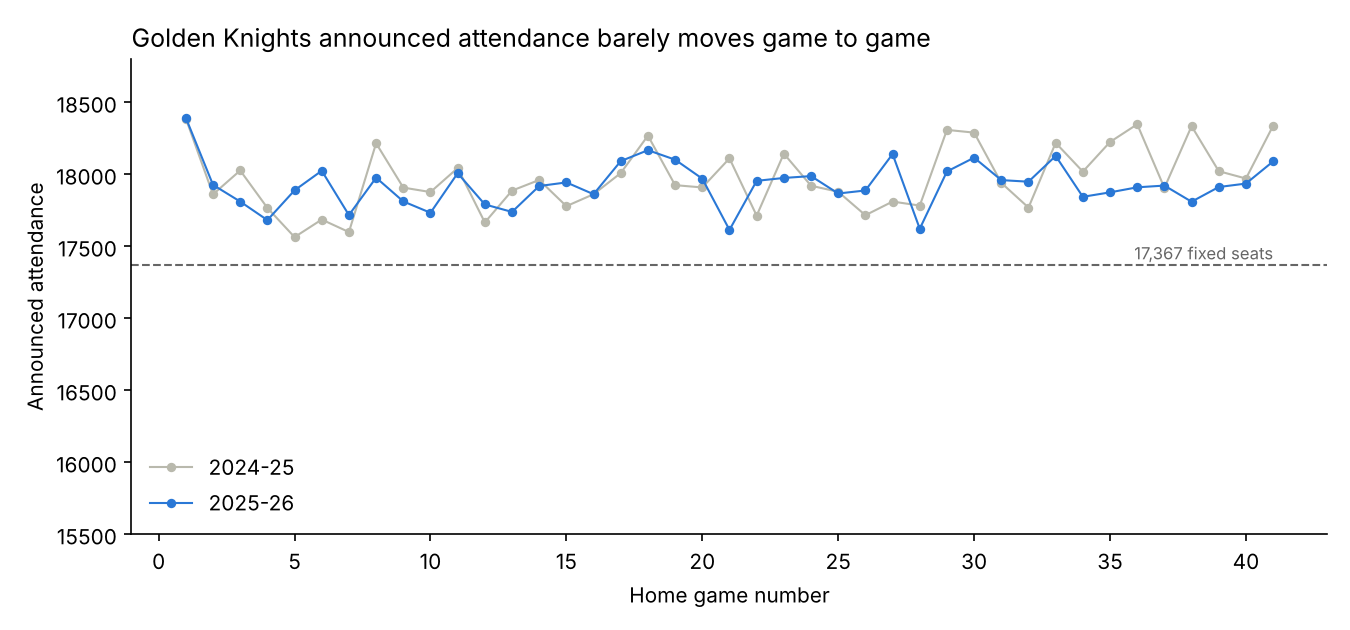
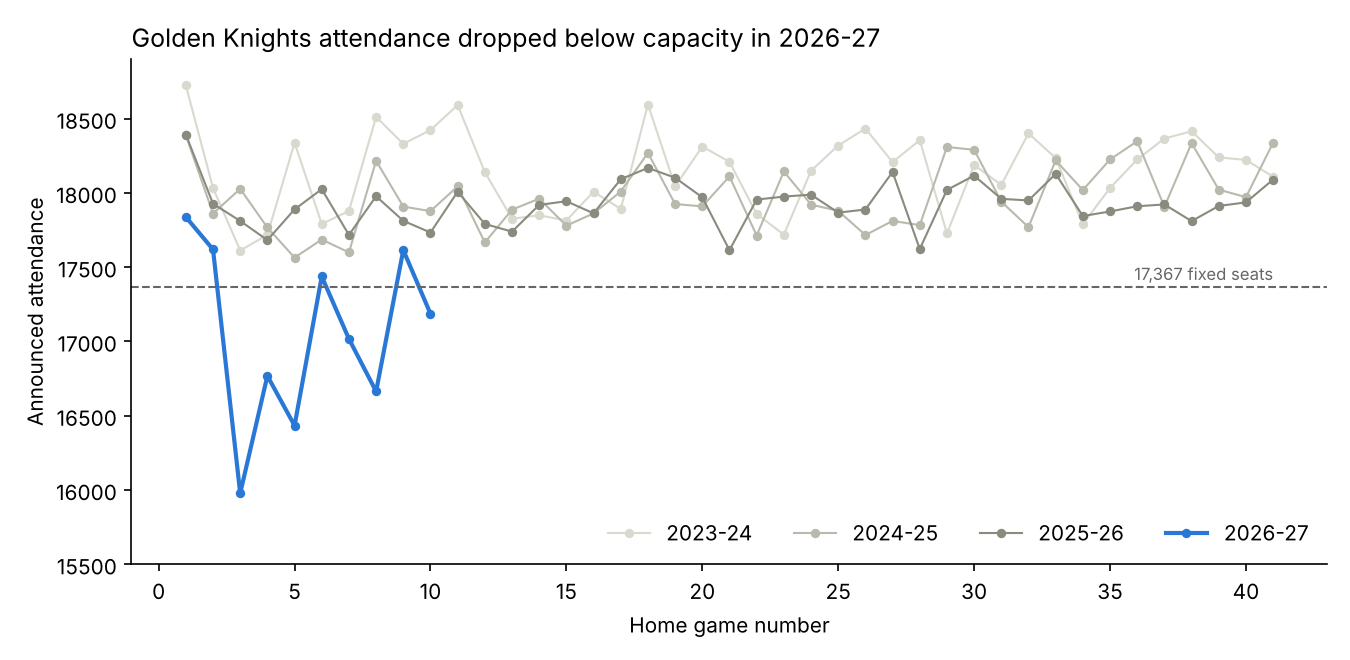
vegas-nba-demand: add 2023-24 and 2026-27 Golden Knights games, compare eras
Fit the capped-era model on 2023-24 to 2025-26 (123 games) and compare
2026-27 to date (10 games), the first season with attendance below capacity.

Claude-Session: https://claude.ai/code/session_01K1x2dEquoHifJFTghzGg75

diff --git a/vegas-nba-demand/src/02_vgk_game_model.py b/vegas-nba-demand/src/02_vgk_game_model.py
@@ -1,8 +1,15 @@
 """Golden Knights game-level attendance: how much does demand show up in the gate?
 
+Two eras:
+  - 2023-24 to 2025-26: every game announced above fixed seats (broker-held
+    tickets counted), so attendance is a compressed signal.
+  - 2026-27: the team cut broker sales and announced attendance can fall below
+    capacity, so the gate starts to show real variation.
+
 Inputs:  data/vgk_home_games.csv (regular-season home games, announced attendance)
 Outputs: results/vgk_season_summary.csv, results/vgk_model_coefficients.csv,
          results/vgk_model_fit.json, results/vgk_by_weekday.csv,
+         results/vgk_2026_27_vs_model.csv, results/vgk_era_comparison.json,
          results/vgk_attendance_by_game.png
 """
 import json
@@ -18,6 +25,7 @@ ROOT = Path(__file__).resolve().parents[1]
 RES = ROOT / "results"
 RES.mkdir(exist_ok=True)
 FIXED_SEATS = 17_367
+NEW_ERA = "2026-27"
 
 ORIGINAL_SIX = {"Boston Bruins", "Chicago Blackhawks", "Detroit Red Wings",
                 "Montreal Canadiens", "New York Rangers", "Toronto Maple Leafs"}
@@ -27,6 +35,7 @@ PACIFIC = {"Anaheim Ducks", "Calgary Flames", "Edmonton Oilers", "Los Angeles Ki
            "San Jose Sharks", "Seattle Kraken", "Vancouver Canucks"}
 
 g = pd.read_csv(ROOT / "data" / "vgk_home_games.csv", parse_dates=["date"]).sort_values("date")
+g = g.reset_index(drop=True)
 g["weekday"] = g.date.dt.day_name()
 g["fri_sat"] = g.weekday.isin(["Friday", "Saturday"]).astype(int)
 g["sunday"] = (g.weekday == "Sunday").astype(int)
@@ -37,8 +46,8 @@ g["home_opener"] = (g.groupby("season").cumcount() == 0).astype(int)
 g["original_six"] = g.opponent.isin(ORIGINAL_SIX).astype(int)
 g["canadian"] = g.opponent.isin(CANADIAN).astype(int)
 g["pacific"] = g.opponent.isin(PACIFIC).astype(int)
+g["season_2024_25"] = (g.season == "2024-25").astype(int)
 g["season_2025_26"] = (g.season == "2025-26").astype(int)
-g["pct_of_fixed_seats"] = g.attendance / FIXED_SEATS
 
 season = g.groupby("season").attendance.agg(["count", "mean", "std", "min", "max"]).round(1)
 season["mean_pct_of_fixed_seats"] = (season["mean"] / FIXED_SEATS * 100).round(1)
@@ -46,14 +55,24 @@ season["games_below_fixed_seats"] = g.groupby("season").apply(
     lambda d: int((d.attendance < FIXED_SEATS).sum()), include_groups=False)
 season.to_csv(RES / "vgk_season_summary.csv")
 
-g.groupby("weekday").attendance.agg(["count", "mean"]).round(0).reindex(
+old = g[g.season != NEW_ERA].reset_index(drop=True)
+new = g[g.season == NEW_ERA].reset_index(drop=True)
+
+old.groupby("weekday").attendance.agg(["count", "mean"]).round(0).reindex(
     ["Monday", "Tuesday", "Wednesday", "Thursday", "Friday", "Saturday", "Sunday"]
 ).to_csv(RES / "vgk_by_weekday.csv")
 
+# --- Model on the capped era (2023-24 to 2025-26) ---
 FEATURES = ["fri_sat", "sunday", "holiday_week", "late_season", "home_opener",
-            "original_six", "canadian", "pacific", "season_2025_26"]
-X = np.column_stack([np.ones(len(g))] + [g[f].to_numpy(float) for f in FEATURES])
-y = g.attendance.to_numpy(float)
+            "original_six", "canadian", "pacific", "season_2024_25", "season_2025_26"]
+
+
+def design(d):
+    return np.column_stack([np.ones(len(d))] + [d[f].to_numpy(float) for f in FEATURES])
+
+
+X = design(old)
+y = old.attendance.to_numpy(float)
 XtX_inv = np.linalg.inv(X.T @ X)
 beta = XtX_inv @ X.T @ y
 resid = y - X @ beta
@@ -63,13 +82,11 @@ se = np.sqrt(np.diag(XtX_inv) * sigma2)
 r2 = 1 - (resid ** 2).sum() / ((y - y.mean()) ** 2).sum()
 adj_r2 = 1 - (1 - r2) * (len(y) - 1) / dof
 
-# Leave-one-out error via the hat matrix, against a season-mean baseline
 H = X @ XtX_inv @ X.T
-loo_resid = resid / (1 - np.diag(H))
-loo_rmse = float(np.sqrt((loo_resid ** 2).mean()))
+loo_rmse = float(np.sqrt(((resid / (1 - np.diag(H))) ** 2).mean()))
 base_err = []
-for i in range(len(g)):
-    same = (g.season == g.season.iloc[i]).to_numpy().copy()
+for i in range(len(old)):
+    same = (old.season == old.season.iloc[i]).to_numpy().copy()
     same[i] = False
     base_err.append(y[i] - y[same].mean())
 base_rmse = float(np.sqrt(np.mean(np.square(base_err))))
@@ -78,7 +95,8 @@ coef = pd.DataFrame({"term": ["intercept"] + FEATURES, "coef": beta.round(1),
                      "std_err": se.round(1), "t": (beta / se).round(2)})
 coef.to_csv(RES / "vgk_model_coefficients.csv", index=False)
 fit = {
-    "n_games": int(len(g)), "r2": round(float(r2), 3), "adj_r2": round(float(adj_r2), 3),
+    "seasons": sorted(old.season.unique().tolist()),
+    "n_games": int(len(old)), "r2": round(float(r2), 3), "adj_r2": round(float(adj_r2), 3),
     "resid_sd": round(float(np.sqrt(sigma2))),
     "loo_rmse_model": round(loo_rmse), "loo_rmse_season_mean_baseline": round(base_rmse),
     "attendance_sd_all_games": round(float(y.std(ddof=1))),
@@ -88,22 +106,64 @@ fit = {
 }
 (RES / "vgk_model_fit.json").write_text(json.dumps(fit, indent=2))
 
-fig, ax = plt.subplots(figsize=(9, 4.2))
-for s, c in (("2024-25", "#b9b9ad"), ("2025-26", "#2a78d6")):
+# --- 2026-27: what the old model would have announced vs what was announced ---
+# Predict at the 2025-26 season level (the most recent capped season).
+Xn = design(new.assign(season_2025_26=1))
+new["model_expected"] = (Xn @ beta).round().astype(int)
+new["gap"] = new.attendance - new.model_expected
+new["pct_of_fixed_seats"] = (new.attendance / FIXED_SEATS * 100).round(1)
+new[["date", "weekday", "opponent", "attendance", "model_expected", "gap",
+     "pct_of_fixed_seats"]].to_csv(RES / "vgk_2026_27_vs_model.csv", index=False)
+
+
+def weekend_gap(d):
+    d = d[d.home_opener == 0]
+    wk = d[d.fri_sat == 1].attendance
+    mid = d[(d.fri_sat == 0) & (d.sunday == 0)].attendance
+    return {"fri_sat_games": int(len(wk)), "fri_sat_mean": round(float(wk.mean())),
+            "mon_thu_games": int(len(mid)), "mon_thu_mean": round(float(mid.mean())),
+            "gap": round(float(wk.mean() - mid.mean()))}
+
+
+era = {
+    "capped_era_2023_24_to_2025_26": {
+        "games": int(len(old)), "mean": round(float(old.attendance.mean())),
+        "sd": round(float(old.attendance.std(ddof=1))),
+        "games_below_fixed_seats": int((old.attendance < FIXED_SEATS).sum()),
+        "weekend_vs_midweek_excl_openers": weekend_gap(old),
+    },
+    "season_2026_27_to_date": {
+        "games": int(len(new)), "mean": round(float(new.attendance.mean())),
+        "sd": round(float(new.attendance.std(ddof=1))),
+        "games_below_fixed_seats": int((new.attendance < FIXED_SEATS).sum()),
+        "mean_gap_vs_model": round(float(new.gap.mean())),
+        "mean_pct_change_vs_2025_26": round(float(
+            new.attendance.mean() / g[g.season == "2025-26"].attendance.mean() - 1) * 100, 1),
+        "weekend_vs_midweek_excl_openers": weekend_gap(new),
+    },
+}
+(RES / "vgk_era_comparison.json").write_text(json.dumps(era, indent=2))
+
+fig, ax = plt.subplots(figsize=(9, 4.4))
+shades = {"2023-24": "#d9d9d0", "2024-25": "#b9b9ad", "2025-26": "#8a8a7e", "2026-27": "#2a78d6"}
+for s, c in shades.items():
     d = g[g.season == s]
-    ax.plot(range(1, len(d) + 1), d.attendance, marker="o", ms=3.5, lw=1, color=c, label=s)
+    ax.plot(range(1, len(d) + 1), d.attendance, marker="o", ms=3.5,
+            lw=2 if s == NEW_ERA else 1, color=c, label=s)
 ax.axhline(FIXED_SEATS, color="#666", lw=1, ls="--")
-ax.text(41, FIXED_SEATS + 15, "17,367 fixed seats", ha="right", va="bottom", fontsize=8, color="#666")
-ax.set_ylim(15_500, 18_800)
+ax.text(41, FIXED_SEATS + 20, "17,367 fixed seats", ha="right", va="bottom", fontsize=8, color="#666")
+ax.set_ylim(15_500, 18_900)
 ax.set_xlabel("Home game number")
 ax.set_ylabel("Announced attendance")
-ax.set_title("Golden Knights announced attendance barely moves game to game", loc="left")
-ax.legend(frameon=False)
+ax.set_title("Golden Knights attendance dropped below capacity in 2026-27", loc="left")
+ax.legend(frameon=False, ncol=4, loc="lower right")
 for s in ("top", "right"):
     ax.spines[s].set_visible(False)
 fig.tight_layout()
 fig.savefig(RES / "vgk_attendance_by_game.png", dpi=150)
 
-print(season, "\n")
+print(season.to_string(), "\n")
 print(coef.to_string(index=False), "\n")
 print(json.dumps(fit, indent=2))
+print(new[["date", "weekday", "opponent", "attendance", "model_expected", "gap"]].to_string(index=False))
+print(json.dumps(era, indent=2))

diff --git a/vegas-nba-demand/README.md b/vegas-nba-demand/README.md
@@ -26,30 +26,39 @@ Requires `pandas`, `numpy`, `matplotlib`.
 
 ### 2. Golden Knights game model (`src/02_vgk_game_model.py`)
 
-82 regular-season home games, 2024-25 and 2025-26.
+133 regular-season home games: 2023-24 to 2025-26 (123 games) and 2026-27 through Nov. 11 (10 games).
 
-- Announced attendance barely moves. Every game was above the 17,367 fixed seats, the range was 17,564 to 18,393, and the standard deviation was 193 (1.1% of fixed seats).
-- Within that narrow band the pattern is clear. OLS on nine flags explains 52% of the variance (adjusted 46%). Leave-one-out error is 152 seats, against 195 for a season-mean baseline.
+**Capped era, 2023-24 to 2025-26.** Every game was announced above the 17,367 fixed seats, so the gate barely moves.
+
+- Season averages slid each year: 18,139, then 17,975, then 17,929.
+- The range across 123 games was 17,564 to 18,724, with a standard deviation of 240 (1.4% of fixed seats).
+- OLS on opponent and calendar flags plus season levels explains 55% of the variance (adjusted 51%). Leave-one-out error is 175 seats, against 227 for a season-mean baseline.
 
 | Effect | Seats | t |
 | --- | --- | --- |
-| Home opener | +570 | 5.4 |
-| Holiday week (Dec. 23 to Jan. 2) | +225 | 4.1 |
-| February to April | +182 | 5.1 |
-| Original Six opponent | +140 | 3.0 |
-| Friday or Saturday | +131 | 3.6 |
-| Canadian opponent | -91 | -2.3 |
-| Pacific Division opponent | +48 | 1.3 |
-| Sunday | +40 | 0.7 |
-| 2025-26 season | -43 | -1.3 |
+| Home opener | +626 | 6.1 |
+| Holiday week (Dec. 23 to Jan. 2) | +276 | 4.5 |
+| Friday or Saturday | +188 | 5.3 |
+| February to April | +176 | 5.2 |
+| Original Six opponent | +146 | 3.3 |
+| Canadian opponent | -93 | -2.4 |
+| Pacific Division opponent | +73 | 2.0 |
+| Sunday | +47 | 0.9 |
+| 2024-25 vs 2023-24 | -167 | -4.4 |
+| 2025-26 vs 2023-24 | -207 | -5.5 |
 
-- The gate count shows the direction of demand, not its size. In a building that reports itself full every night, the difference between a strong and weak date shows up in price, not attendance.
-- The announced numbers also overstated demand. In October 2026, after the team cut sales to ticket brokers, a home game drew 15,977 and the sellout streak ended at 377 games. Broker-held tickets had been counted as attendance.
+**2026-27, after the team cut sales to ticket brokers.** The gate now shows real variation.
+
+- Average attendance is 17,055 through 10 games, down 4.9% from 2025-26. Six of the 10 were below fixed seats.
+- Games ran an average of 851 seats below what the capped-era model expected, and as much as 1,821 below (Oct. 8 against Toronto, 15,977).
+- The weekend premium is far larger than the capped era showed: Friday and Saturday games averaged 17,360 against 16,655 for Monday to Thursday, a gap of 705 seats. The same gap was 154 seats in 2023-24 to 2025-26. This rests on 4 weekend and 5 midweek games, so it is an early signal.
+- Reading: the old announced numbers hid a soft midweek. Weak dates were being absorbed by brokers and by price, not by the gate. `results/vgk_2026_27_vs_model.csv` has the game-by-game gaps.
 
 ## What is missing
 
 - **Prices.** This is not yet a price model. No free historical source of Golden Knights resale or face prices was reachable from the build environment. The useful next data is a per-game get-in price and median listing price, captured on a schedule before each home game.
-- **More seasons.** Only 2024-25 and 2025-26 game logs were collected. 2017-18 to 2023-24 and the current season would show whether the opponent and calendar effects are stable, and 2026-27 is the first season where announced attendance can fall below capacity.
+- **Earlier seasons.** 2017-18 to 2022-23 game logs are not in the data yet. They would show whether the opponent and calendar effects were stable before 2023-24. (2019-20 was cut short and 2020-21 ran under capacity limits, so those two need separate handling.)
+- **The rest of 2026-27.** Ten games is a small sample. Refresh `data/vgk_home_games.csv` as the season goes on; this is the first season where attendance itself can be modeled.
 - **Full-season NBA attendance.** The market model uses 2026-27 through Nov. 11, 2026 (4 to 7 home games a team). Rerun with a full season.
 
 ## Data
@@ -57,7 +66,7 @@ Requires `pandas`, `numpy`, `matplotlib`.
 | File | Contents | Source |
 | --- | --- | --- |
 | `data/nba_market_attendance.csv` | 29 U.S. NBA teams: metro population, average home attendance, count of MLB/NFL/NBA/NHL teams in the metro | NBA attendance file through Nov. 11, 2026; Census July 2025 metro estimates; team counts tallied by hand |
-| `data/vgk_home_games.csv` | 82 Golden Knights regular-season home games with announced attendance | Hockey-Reference team game logs, 2024-25 and 2025-26 |
+| `data/vgk_home_games.csv` | 133 Golden Knights regular-season home games with announced attendance | Hockey-Reference team game logs, 2023-24 to 2026-27 (through Nov. 11, 2026) |
 
 Checks: the 2024-25 game log averages 17,975, matching the figure LVSportsBiz reported for that season, and its 29 home wins match the team's 29-9-3 home record.
 
@@ -65,5 +74,5 @@ Checks: the 2024-25 game log averages 17,975, matching the figure LVSportsBiz re
 
 - Announced attendance is tickets distributed, not people in the building.
 - The opponent groups are hand-assigned and overlap (Toronto and Montreal are both Original Six and Canadian).
-- Nine flags on 82 games is a small sample. Treat effects under about 100 seats as noise.
+- Ten terms on 123 games is a small sample. Treat effects under about 100 seats as noise.
 - Toronto is excluded from the NBA market model. Sacramento is counted as a one-team market although the A's play there through 2027.
